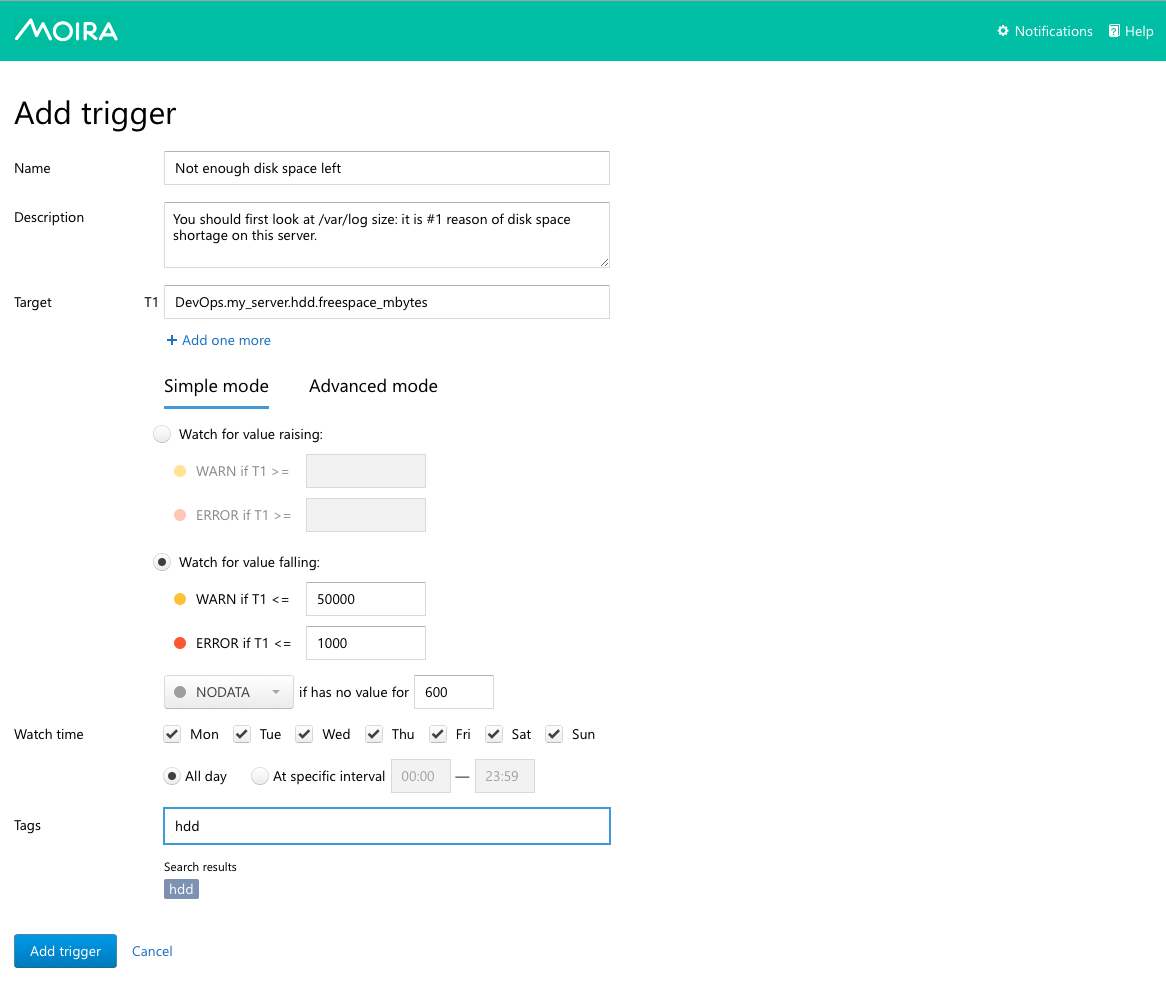
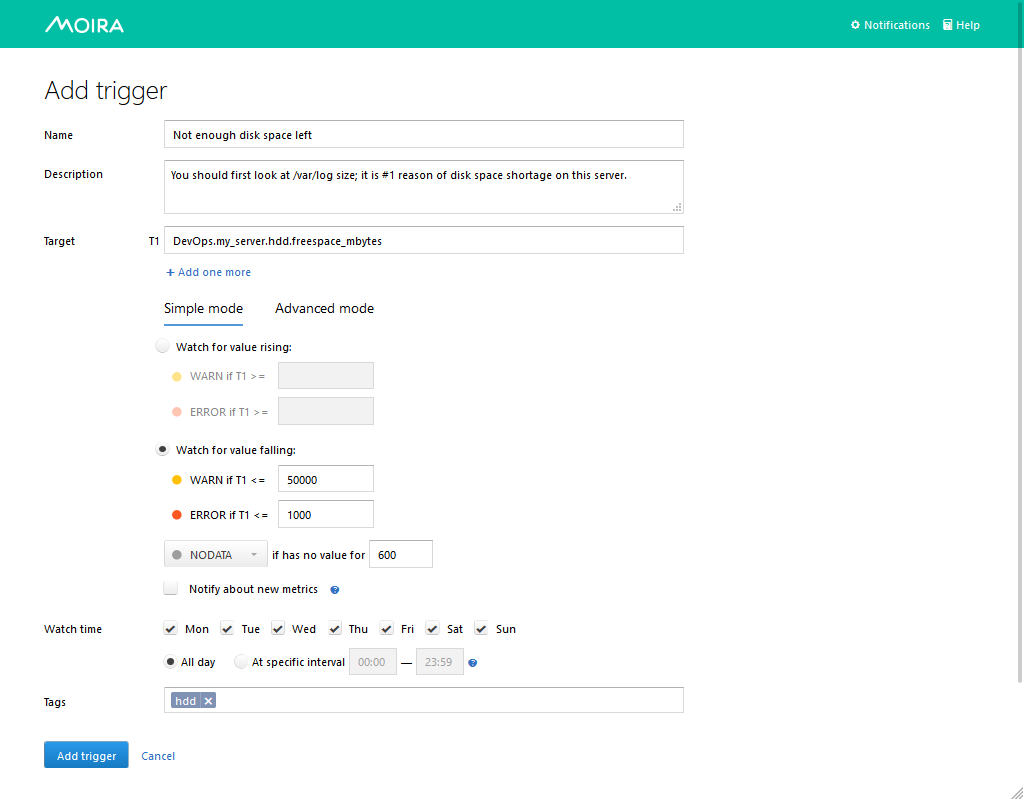
Add description for muting first NODATA - OK  event moira-alert/moira#113

diff --git a/source/user_guide/nodata.rst b/source/user_guide/nodata.rst
@@ -15,6 +15,13 @@ When Moira hasn't been receiving data for more than default 600 seconds, it will
 You can set any other state or change time delay here. For example, if you have an error metric, and no data means no
 errors, you should set this to OK.
 
+.. note::
+
+  Checkbox ``Notify about new metrics`` defines whether Moira should notify you about new metrics. 
+  If you check this box, Moira will send you ``NODATA`` → ``OK`` event for every new metric in the trigger.
+  
+  New metrics alerting is useful, for example when you want to receive messages about new server added in cluster.
+
 You can also select DEL here to automatically delete all metrics that no longer provide data. A simple use case is when
 you often rename metrics and Moira quickly becomes flooded with old irrelevant metric names.
 

diff --git a/source/changelog.rst b/source/changelog.rst
@@ -11,6 +11,7 @@ Changelog
 
 - Flush trigger events when removing the trigger `moira-alert/moira#116 <https://github.com/moira-alert/moira/pull/116>`_.
 - Remove redundant Graphite-metrics that counted the time of check of each single trigger `moira-alert/moira#117 <https://github.com/moira-alert/moira/pull/117>`_.
+- By default mute notifications about new metrics in the trigger `moira-alert/moira#113 <https://github.com/moira-alert/moira/pull/113>`_.
 
 2.3.1
 -----
